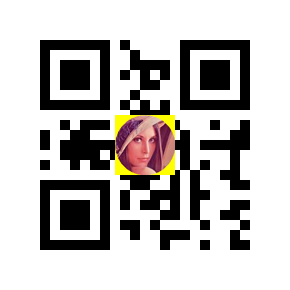
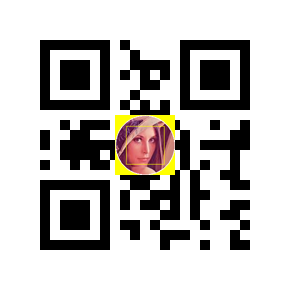
changes

Changed region(s): [[0.4034, 0.4034, 0.6207, 0.6207], [0.4655, 0.3724, 0.5276, 0.4034], [0.3724, 0.4655, 0.4034, 0.5276]]

diff --git a/main.py b/main.py
@@ -28,7 +28,7 @@ def faceDetection (Image):
         LinThickness =1
 
         """Drawing Normal Rectangle which Opencv ROI of face"""
-        cv.rectangle(Image, (x, y), (x+w, y+h), YELLOW, LinThickness)
+        # cv.rectangle(Image, (x, y), (x+w, y+h), YELLOW, LinThickness)
         """ Increasing the face area here """
         # cv.rectangle(Image, (x-wPadding, y-hPadding), (x+w+wPadding, y+h+hPadding), GREEN, 10)
         mask = np.zeros(Image.shape, dtype = np.uint8)
@@ -41,7 +41,7 @@ def faceDetection (Image):
         """ Calculating the Radius of Circle"""
         Radius = (wPadding+int(h/2))
         """ Drwaing Circle on the image """
-        cv.circle(Image, (cCX, ccY), Radius, (WHITE),2)
+        # cv.circle(Image, (cCX, ccY), Radius, (WHITE),2)
         
         """Creating Circle on the Mask on oder to write image"""
         cv.circle(mask, (cCX, ccY), Radius, (WHITE),cv.FILLED)
